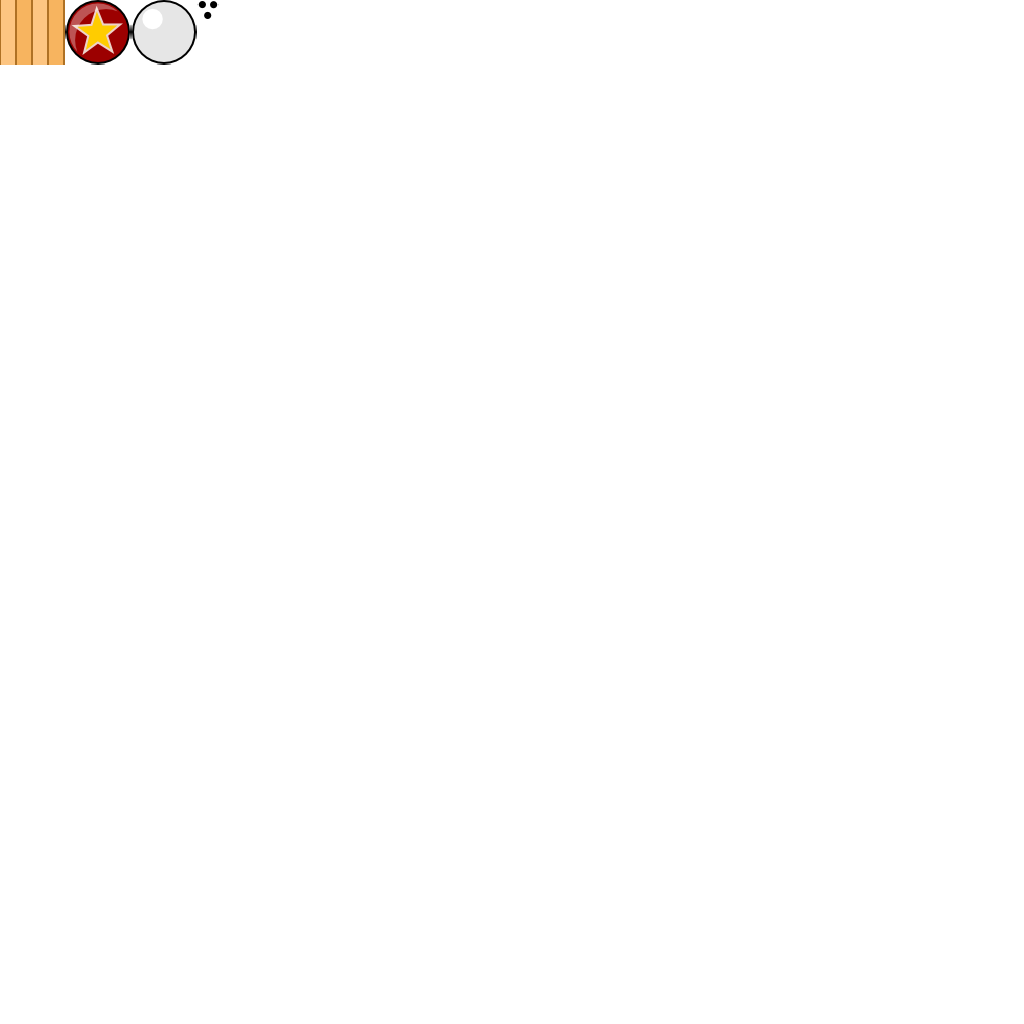
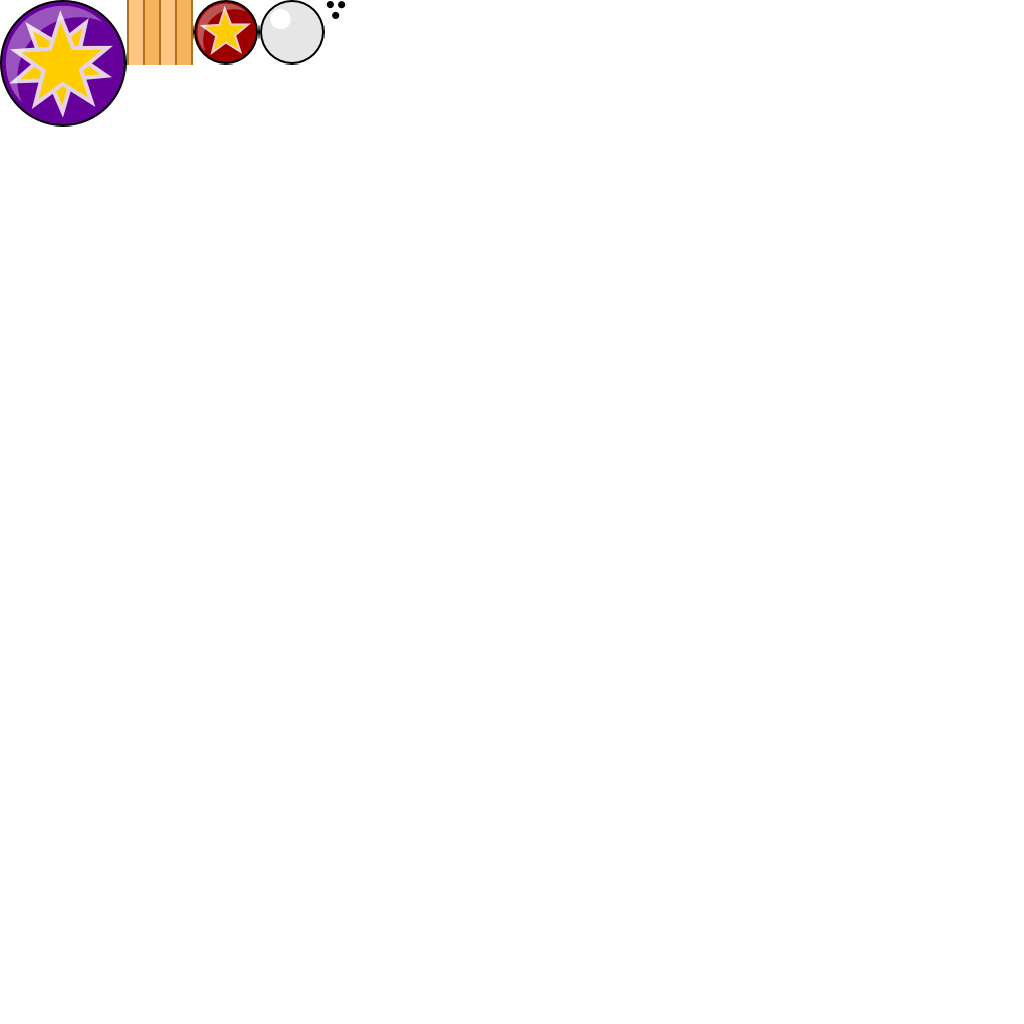
Added mega bumper

Changed region(s): [[0.0, 0.0, 0.3438, 0.125]]

diff --git a/Assets/Objects/Ball.cs b/Assets/Objects/Ball.cs
@@ -5,6 +5,10 @@ public class Ball : MonoBehaviour {
 
 	GameObject holes;
 
+	float velocityThreshold1 = 15f;
+	float velocityThreshold2 = 20f;
+	float velocityThreshold3 = 25f;
+
 	public void Awake() {
 		Transform[] children = gameObject.GetComponentsInChildren<Transform>();
 		foreach (Transform child in children) {
@@ -16,6 +20,19 @@ public class Ball : MonoBehaviour {
 
 	public void Update() {
 		holes.transform.Rotate(((new Vector3(rigidbody.velocity.y, 0f, -rigidbody.velocity.x)).normalized) * (rigidbody.velocity.magnitude * 50f * Time.deltaTime));
+
+		Debug.Log(rigidbody.velocity.magnitude);
+
+		float v = rigidbody.velocity.magnitude;
+		if (v > velocityThreshold3) {
+			rigidbody.drag = 2f;
+		} else if (v > velocityThreshold2) {
+			rigidbody.drag = 0.5f;
+		} else if (v > velocityThreshold1) {
+			rigidbody.drag = 0.05f;
+		} else {
+			rigidbody.drag = 0f;
+		}
 	}
 
 	public void Roll(Vector2 v) {
